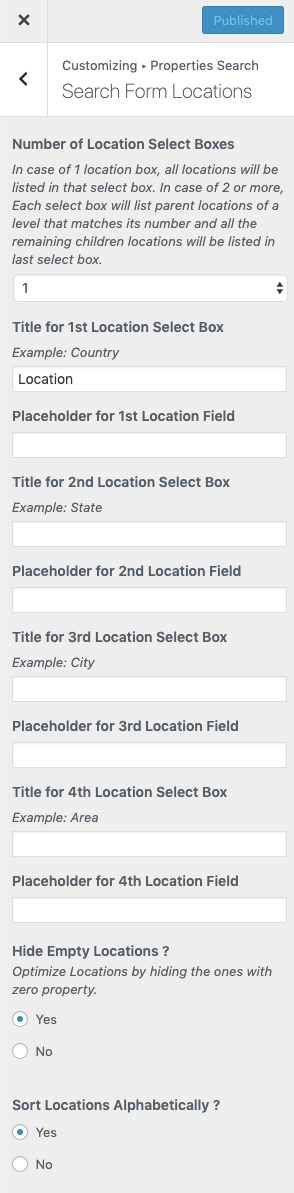
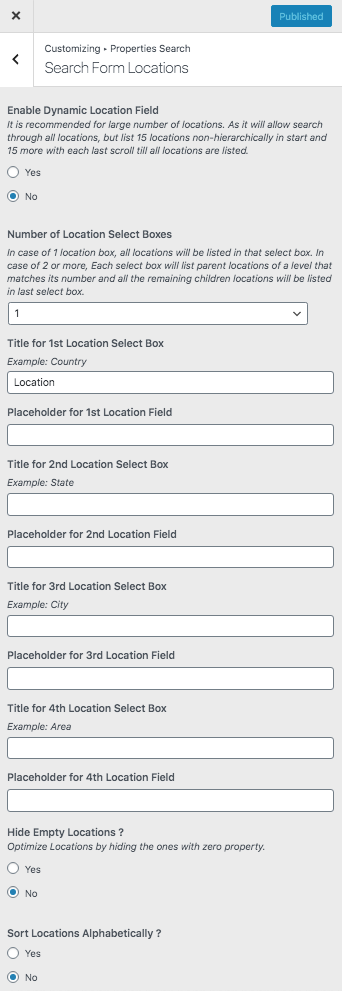
Added Dynamic Locations section for Properties Search

diff --git a/docs/css/layout.css b/docs/css/layout.css
@@ -9,8 +9,11 @@
     border-bottom: 1px solid #eff0ef;
 }
 .md-typeset h1, .md-typeset h2 {
-    font-weight: 700;
+    font-weight: 700 !important;
     letter-spacing: -.01em;
+}
+.md-typeset h4 {
+    font-size: 1rem;
 }
 .md-header-nav__button.md-logo * {
     display: block;

diff --git a/docs/properties-search-page.md b/docs/properties-search-page.md
@@ -4,7 +4,7 @@ Before starting with this section, Make sure you have pretty permalinks enabled 
 
 Follow the steps below to configure the search functionality.
 
-### Step 1. Select Property Search Page
+### **Step 1. Select Property Search Page**
 
 Please navigate to **Dashboard → Real Homes → Customize Settings** and then go into **Properties Search → Properties Search Page** and select the Property Search Page. You can setup other options according to your requirements.
 
@@ -14,7 +14,7 @@ After this you will have a property search form displayed on homepage.
 
 Now, you can also use the RealHomes - Advance Search Widget in sidebar as that widget uses the same configurations.
 
-### Step 2. Show / Hide and Drag & Drop Fields with Search Form Labels
+### **Step 2. Show / Hide and Drag & Drop Fields with Search Form Labels**
 
 Navigate to **Search Form Basics** section in **Properties Search** panel, In this section you can **Show / Hide Fields** on properties search form as well as **Drag and Drop the Fields** to change their display order and you can also modify the labels.
 
@@ -26,7 +26,7 @@ Navigate to **Search Form Basics** section in **Properties Search** panel, In th
 
  ![Searcch Form Basics](images/home-setup/search-basic-two.png)
 
-### Step 3. Configure Locations Field
+### **Step 3. Configure Locations Field**
 
 Properties Search panel contains a special section for Locations. Using which, Property location field in search form can be customized to fulfill your requirements. 
 
@@ -48,7 +48,15 @@ If you face any confusion, Simply make the changes in settings and preview them 
 
 You can also Hide Empty Locations and Sort Locations Alphabetically. It means that if a location is not assigned to any property it won't be displayed in the location drop-down list.
 
-### Step 4. Minimum and Maximum Values For Beds & Baths
+#### Enable Dynamic Locations (Optimize Large Number Of Locations)
+
+Speeding up the loading time of large number of locations is now possible. All you have to do is to navigate to **Dashboard → Real Homes → Customize Settings → Properties Search → Search Form Locations** and activate **Enable Dynamic Locations** option as shown below.
+
+![Minimum and Maximum Values For Beds & Baths](images/home-setup/dynamic_locations.gif)
+
+It will help your website performance by loading the locations dynamically by scrolling and lists only 15 locations non-hierarchically and 15 more with each scroll until all locations are listed.
+
+### **Step 4. Minimum and Maximum Values For Beds & Baths**
 
 Properties Search panel also contains a special section for Beds & Baths. Using which, Beds and Baths fields can be customized to your requirements.
 
@@ -62,7 +70,7 @@ In this section:
 
 3) You can modify the search behaviour for beds and baths to Minimum, Maximum or Equals.
 
-### Step 5. Minimum and Maximum Values For Garages
+### **Step 5. Minimum and Maximum Values For Garages**
 
 Properties Search panel contains a special section for Garages. Using which, Garages fields can be customized to your requirements.
 
@@ -76,7 +84,7 @@ In this section:
 
 3) You can modify the search behaviour for garages to Minimum, Maximum or Equals.
 
-### Step 6. Minimum and Maximum Prices
+### **Step 6. Minimum and Maximum Prices**
 
 Properties Search panel also contains a special section for Prices. Using which, Minimum and Maximum prices fields can be customized to your requirements.
 
@@ -84,7 +92,7 @@ Properties Search panel also contains a special section for Prices. Using which,
 
 ![Minimum and Maximum Prices](images/home-setup/min-max-price-second.png)
 
-### Step 7. Minimum and Maximum Area / Related Labels and Placeholder Texts
+### **Step 7. Minimum and Maximum Area / Related Labels and Placeholder Texts**
 
 Properties Search panel contains a section for Area. Using which, Minimum and Maximum area fields can be customized to your requirements.
 

diff --git a/docs/properties-search-page-mod.md b/docs/properties-search-page-mod.md
@@ -58,6 +58,14 @@ If you face any confusion, Simply make the changes in settings and preview them 
 
 You can also Hide Empty Locations and Sort Locations Alphabetically. It means that if a location is not assigned to any property it won't be displayed in the location drop-down list.
 
+#### Enable Dynamic Locations (Optimize Large Number Of Locations)
+
+Speeding up the loading time of large number of locations is now possible. All you have to do is to navigate to **Dashboard → Real Homes → Customize Settings → Properties Search → Search Form Locations** and activate Enable Dynamic Locations option as shown below.
+
+![Minimum and Maximum Values For Beds & Baths](images/home-setup/dynamic_locations.gif)
+
+It will help your website performance by loading the locations dynamically by scrolling and lists only 15 locations non-hierarchically and 15 more with each scroll until all locations are listed.
+
 ### **Step 4. Minimum and Maximum Values For Beds & Baths**
 
 Properties Search panel also contains a special section for Beds & Baths. Using which, Beds and Baths fields can be customized to your requirements.

diff --git a/docs/index.md b/docs/index.md
@@ -1,6 +1,6 @@
 !!! info "Important Information"
 
-    This documentation is last updated on **11th February 2020** and current Real Homes Theme version is {== **3.10.0** ==}
+    This documentation is last updated on **13th February 2020** and current Real Homes Theme version is {== **3.10.0** ==}
 
 Thanks for purchasing **Real Homes WordPress Real Estate Theme**. Any question that is beyond the scope of this documentation you should search in our [knowledge base](https://support.inspirythemes.com/) or ask it on our [support website](https://support.inspirythemes.com/login-register//). You can visit [this knowledge base article](https://support.inspirythemes.com/knowledgebase/how-to-get-themeforest-item-purchase-code/) to learn about how to get item purchase code from themeforest.net to sign-up on our support site.
 
